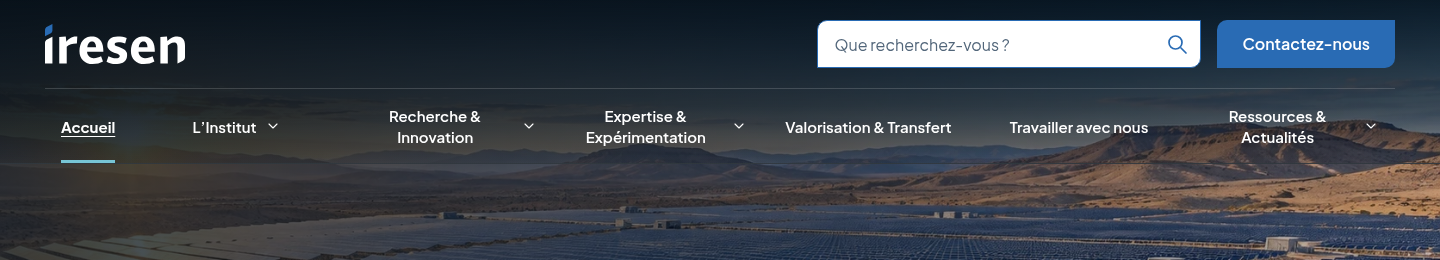
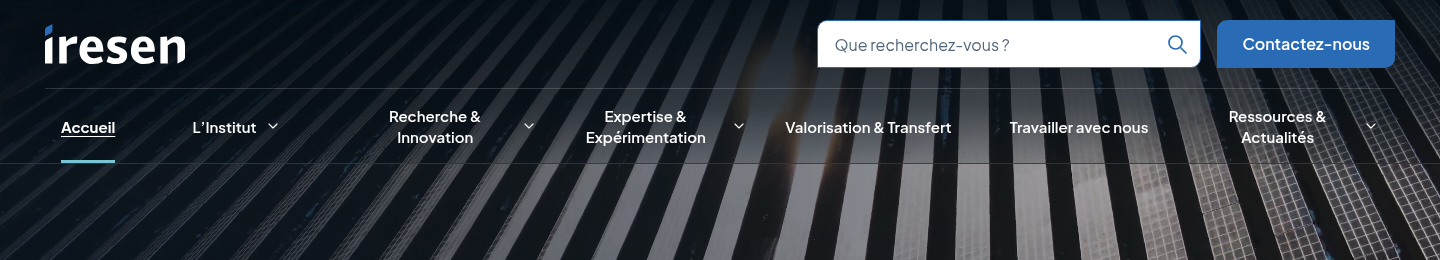
docs: record final search validation and video header capture

diff --git a/docs/validation.md b/docs/validation.md
@@ -985,3 +985,53 @@ production build and all 55 browser cases passed again on the combined source.
 The media observations and retained hero captures above describe the video
 revision before that section integration. Current remote CI and merge results
 are recorded by the PR.
+
+## Animated site search — 2026-10-09
+
+The header magnifier reveals a localized input by expanding physically left. Its
+icon and right edge remain fixed throughout the transition, and available-width
+capping contains the field in Arabic and compact layouts. Hover, keyboard focus
+and first tap open the field; Enter or the next submit action opens the localized
+results page. The actual search interface replaces search's hero/scaffold while
+other page sections and the homepage video remain intact.
+
+Final local checks on the combined implementation passed:
+
+- Repository formatting, lint, strict types and whitespace checks.
+- All 34 unit tests, including 21 search cases and 5 public rich-text rendering
+  cases. Coverage includes relevance, pagination, normalization, Arabic article
+  variants, snippets, section-heading discovery and placeholder exclusion.
+- All 6 CMS integration tests on a disposable PostgreSQL database. Public search
+  and article reads exclude drafts, private/future content and unavailable locale
+  revisions; updates/withdrawal take effect on the next request. Fixture cleanup
+  was independently verified with zero users/pages/news/media remaining.
+- The standalone production build. Existing generated CMS files have no drift;
+  no schema, migration, service or dependency was added.
+- All 69 production Chromium browser tests, including 14 search journeys and the
+  existing navigation, footer, hero and homepage-video checks.
+
+Search journeys cover FR/EN/AR submissions and real destination links, the fixed
+icon during every sampled animation frame, keyboard/Escape/outside dismissal,
+touch open/reopen/submit, editable retained queries, locale/query/hash ordering,
+pagination, blank/no-match/invalid states, reduced motion and no-JavaScript forms.
+Arabic 320/390px forms pass scoped axe scans and containment at 200% root text.
+A final 15-case FR/EN/AR audit at 320/390/768/1024/1440px found no page overflow or
+outside controls for expanded header and results forms.
+
+Five retained captures were inspected for field geometry, readable labels and
+result hierarchy, summaries, pagination and RTL. The expanded homepage header
+was refreshed with the uploaded video visible:
+
+- [Expanded French header](screenshots/header-search-expanded-fr-1440.png)
+- [French desktop results](screenshots/search-results-fr-1440.png)
+- [Arabic mobile results](screenshots/search-results-ar-390.png)
+- [English tablet results](screenshots/search-results-en-768.png)
+- [English wider results](screenshots/search-results-en-1024.png)
+
+Current page/news collections remain empty by default. Section headings support
+wayfinding; editorial placeholder descriptions are excluded from the corpus.
+The live adapter scans eligible news per valid query, so representative-corpus
+latency/memory and indexed retrieval remain follow-up work. Chromium and automated
+accessibility coverage do not establish other-browser or manual screen-reader
+conformance. The [search guide](search.md) records the complete contract and limits.
+Current remote CI and merge results belong to the corresponding PR.
